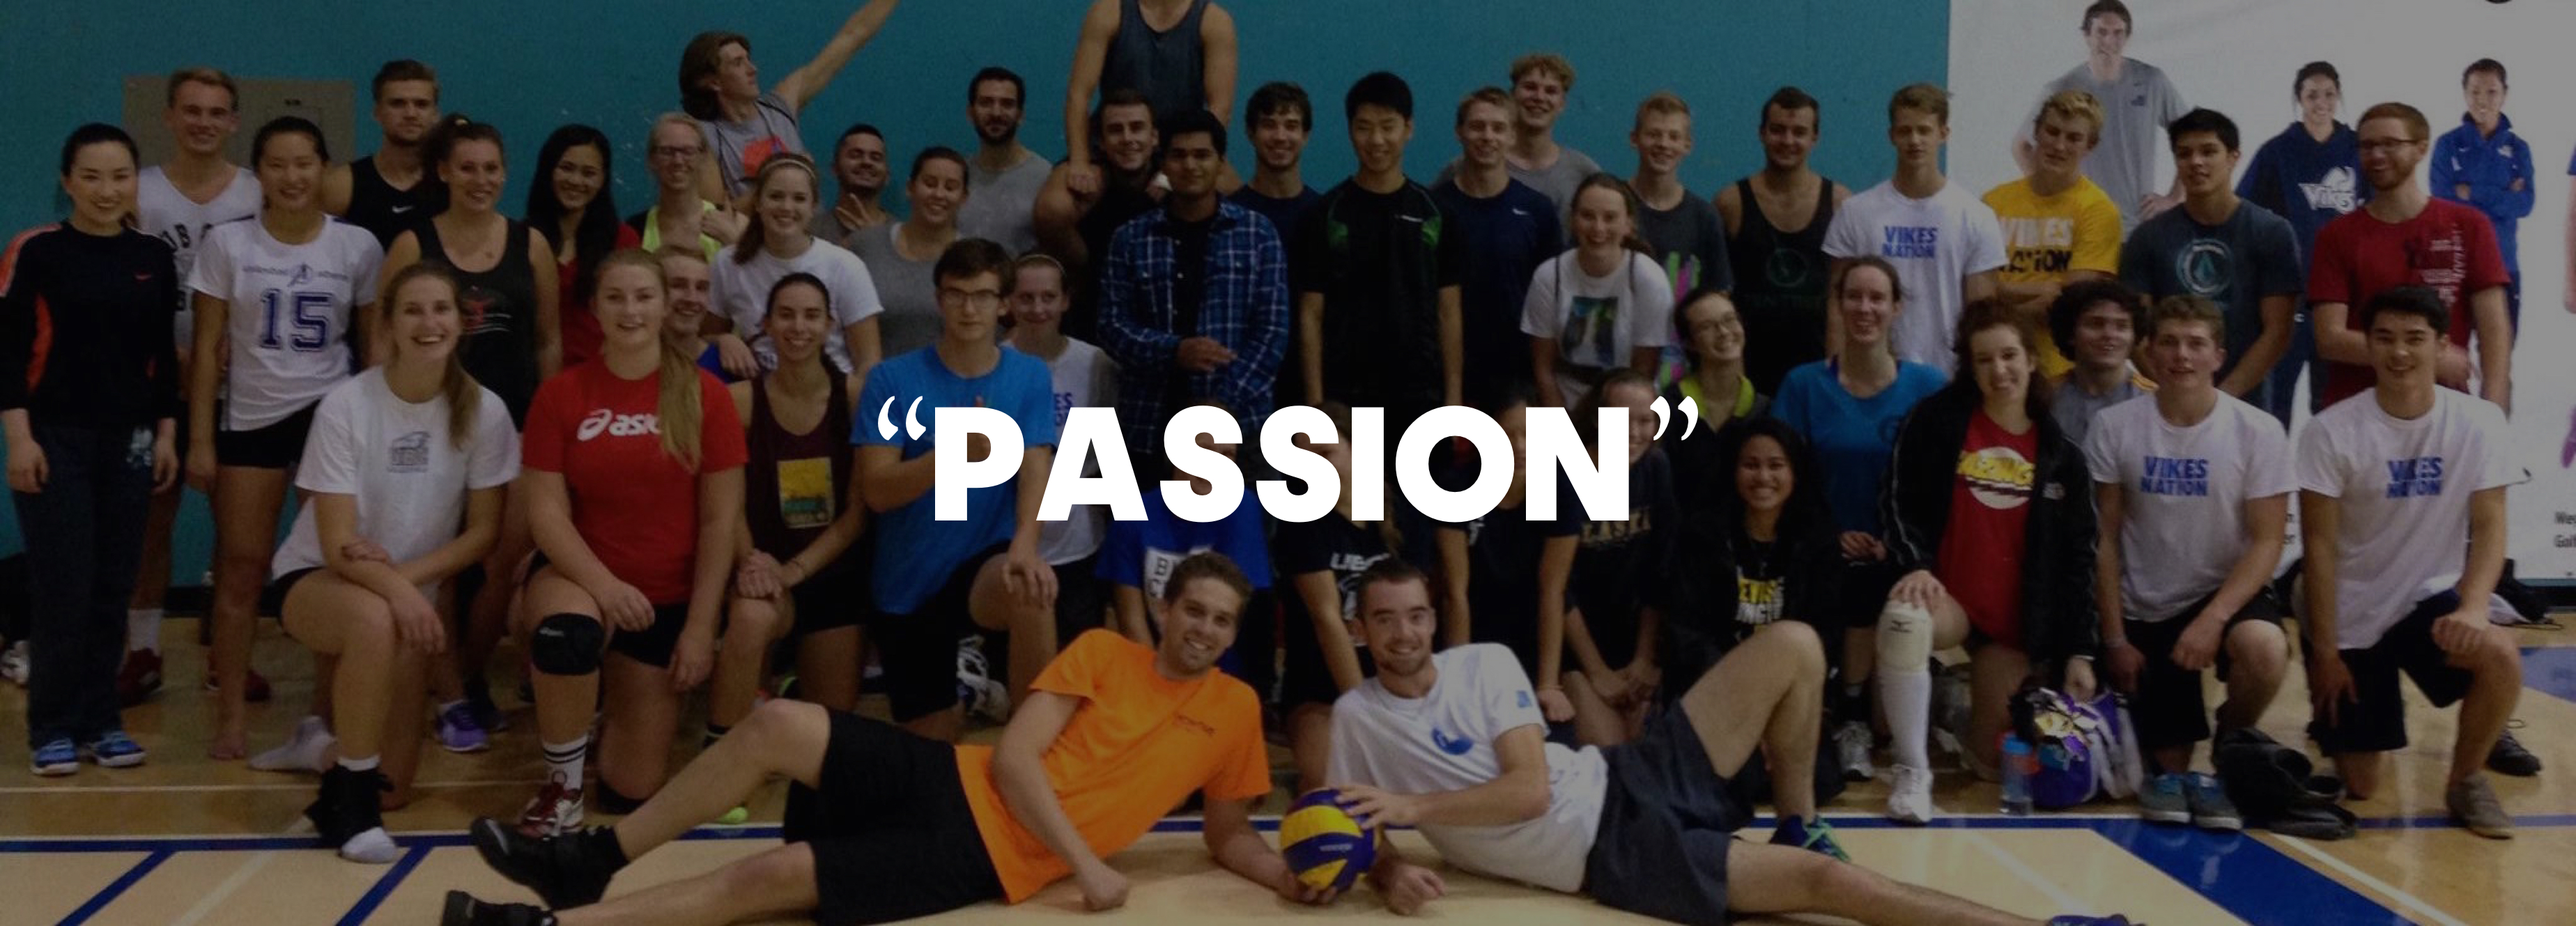
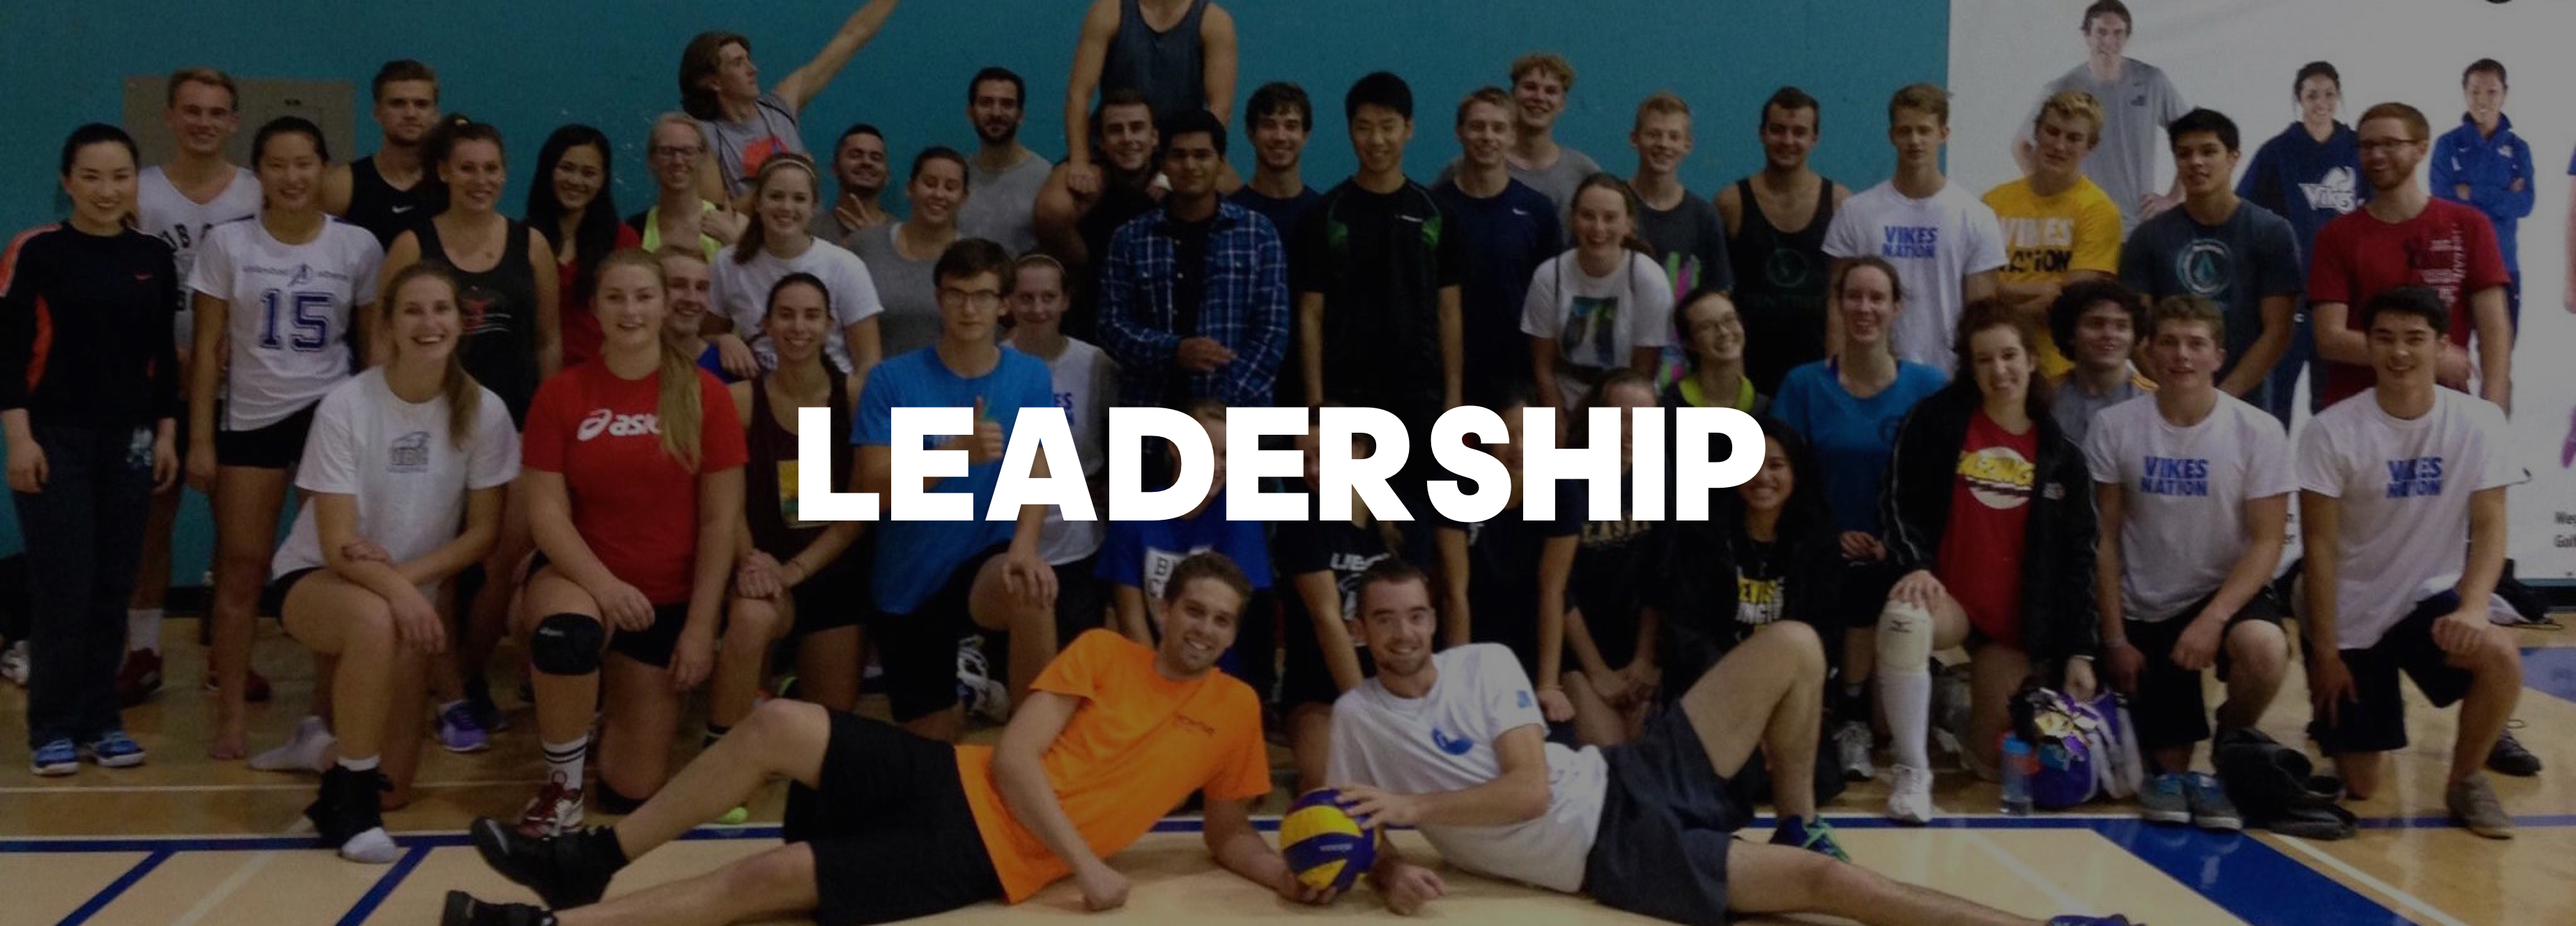
Update images

Changed region(s): [[0.3111, 0.4319, 0.6843, 0.5862]]

diff --git a/index.html b/index.html
@@ -134,8 +134,7 @@
         <div class="container">
             <div class="row">
                 <div class="col-lg-12">
-                    <h1 align="center" class="section-heading">Leadership</h1>
-                    <p class="lead section-lead" align="center"><br></p>
+                    <p class="lead section-lead" align="center"></p>
                     <div class="col-md-4">
                         <img class="img-circle img-responsive img-center" src="img/kentProf.jpg" alt="Kent MacDonald" width="200">
                         <h3 class="text-center">
@@ -178,7 +177,6 @@
         <div class="container">
             <div class="row">
                 <div class="col-lg-12">
-                    <h1  align="center" class="section-heading">Our Friends</h1>
                     <div class="col-md-4">
                         <a href="http://www.1550srestaurant.com">
                             <img class="img-responsive img-center" src="img/1550s.tif" alt="1550s Restaurant" width="200">
